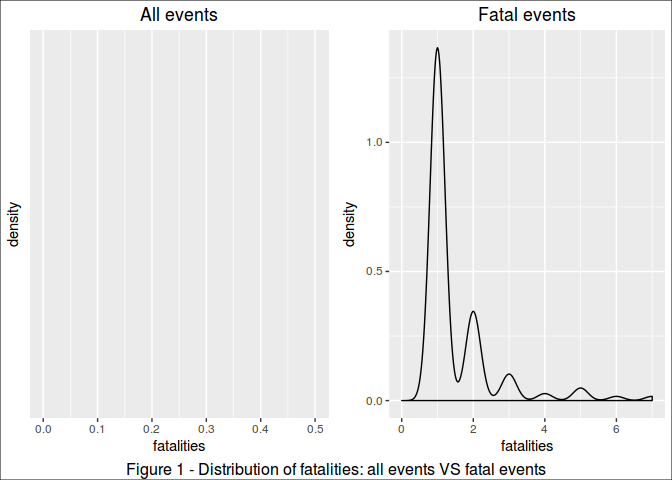
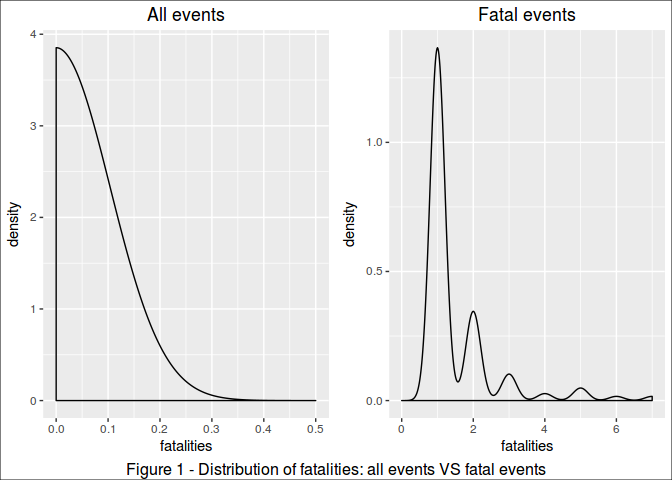
fix plot errors introduced in the last commit

diff --git a/readme.md b/readme.md
@@ -227,9 +227,17 @@ occurrences.
                     filter(!is.na(fatalities)) %>%
                     select(1:7)
 
-
+      
     # quantiles
     qt <- quantile(fatal.df$fatalities, probs=seq(.9,1,0.001))
+
+    # distribution plot
+
+    plt.distr.fatal0 <- ggplot(fatal.df, aes(fatalities))
+
+    plt.distr.fatal0 <- plt.distr.fatal0 + geom_density(aes(y=..density..)) + xlim(0,.5) + 
+            labs(title="All events") +
+            theme(plot.title = element_text(hjust = 0.5))
 
     # display only the qts next to fatal events
     qt[(length(qt)-(length(qt[qt>=1])+1)): length(qt)]
@@ -267,12 +275,7 @@ common values.
 Distribution plots
 
     # distribution plot
-    plt.distr.fatal0 <- ggplot(fatal.df, aes(fatalities))
-
-    plt.distr.fatal0 <- plt.distr.fatal0 + geom_density(aes(y=..density..)) + xlim(0,.5) + 
-            labs(title="All events") +
-            theme(plot.title = element_text(hjust = 0.5))   
-
+     
     plt.distr.fatal1 <- ggplot(fatal.df, aes(fatalities))
 
     plt.distr.fatal1 <- plt.distr.fatal1 + geom_density(aes(y=..density..)) + xlim(0,qt[1]) + 
@@ -664,6 +667,14 @@ occurrences.
     # quantiles
     qt <- quantile(injuring.df$injuries, probs=seq(.975,1,0.002))
 
+    # distribution plot
+    plt.distr.inj0 <- ggplot(injuring.df, aes(injuries))
+
+    plt.distr.inj0 <- plt.distr.inj0 + geom_density(aes(y=..density..)) + xlim(0,0.5) + 
+            labs(title="All events") +
+            theme(plot.title = element_text(hjust = 0.5))
+
+
     # display only the qts next to injuring events
     qt[(length(qt)-(length(qt[qt>=1])+1)): length(qt)]
 
@@ -697,14 +708,6 @@ values.
     ##  42.60  50.84  59.84  98.92 133.20 350.00
 
 Distribution plots
-
-    # distribution plot
-    plt.distr.inj0 <- ggplot(injuring.df, aes(injuries))
-
-    plt.distr.inj0 <- plt.distr.inj0 + geom_density(aes(y=..density..)) + xlim(0,0.5) + 
-            labs(title="All events") +
-            theme(plot.title = element_text(hjust = 0.5))
-
 
     # distribution plot
     plt.distr.inj1 <- ggplot(injuring.df, aes(injuries))
@@ -1283,6 +1286,14 @@ occurrences.
     # quantiles
     qt <- quantile(prop.df$prop.ev, probs=seq(.975,1,0.002))
 
+    # distribution plot
+    plt.distr.prop0 <- ggplot(prop.df, aes(log(prop.ev)))
+
+    plt.distr.prop0 <- plt.distr.prop0 + geom_density(aes(y=..density..)) + #xlim(0,.5) + 
+            labs(title="All events", x="log(amount $)") +
+            theme(plot.title = element_text(hjust = 0.5))       
+
+
     # display only the qts next to harmfull events
     qt
 
@@ -1318,15 +1329,6 @@ common values.
     ## 132280000
 
 Distribution plots
-
-    # distribution plot
-    plt.distr.prop0 <- ggplot(prop.df, aes(log(prop.ev)))
-
-    plt.distr.prop0 <- plt.distr.prop0 + geom_density(aes(y=..density..)) + #xlim(0,.5) + 
-            labs(title="All events", x="log(amount $)") +
-            theme(plot.title = element_text(hjust = 0.5))       
-
-
 
     # distribution plot
     plt.distr.prop1 <- ggplot(prop.df, aes(log(prop.ev)))
@@ -1818,6 +1820,14 @@ occurrences.
     # quantiles
     qt <- quantile(crop.df$crop.ev, probs=seq(.975,1,0.002))
 
+    # distribution plot
+    plt.distr.crop0 <- ggplot(crop.df, aes(log(crop.ev)))
+
+    plt.distr.crop0 <- plt.distr.crop0 + geom_density(aes(y=..density..)) + #xlim(0,.5) + 
+            labs(title="All events", x="log(amount $)") +
+            theme(plot.title = element_text(hjust = 0.5))  
+
+
     # display only the qts next to harmfull events
     qt
 
@@ -1855,14 +1865,6 @@ common values.
     ##   5000000  10120000  16120000  20040000  50100000 500000000
 
 Distribution plots
-
-    # distribution plot
-    plt.distr.crop0 <- ggplot(crop.df, aes(log(crop.ev)))
-
-    plt.distr.crop0 <- plt.distr.crop0 + geom_density(aes(y=..density..)) + #xlim(0,.5) + 
-            labs(title="All events", x="log(amount $)") +
-            theme(plot.title = element_text(hjust = 0.5))  
-
 
     # distribution plot
     plt.distr.crop1 <- ggplot(crop.df, aes(log(crop.ev)))
